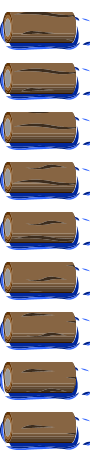
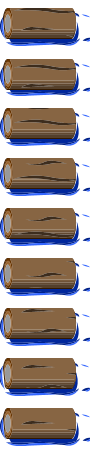
Added - animation of hero die, Fixed - small trunk img, Optimized - trees movement & deletion

diff --git a/scripts/objects.js b/scripts/objects.js
@@ -29,6 +29,7 @@ define(['kineticjs'],
 
 
                 var blob = new Kinetic.Sprite({
+                    inCollision: false,
                     x: x,
                     y: y,
                     width:picWidth,
@@ -57,44 +58,32 @@ define(['kineticjs'],
                     frameIndex: 0
                 });
 
-
+                blob.start();
                 return blob;
             },
 
             food: function (x, y, type) {
                 var imageFile;
-                var imgHeight;
-                var imgWidth;
+                var imgHeight = 50;
+                var imgWidth = 50;
                 switch (type) {
                     case 'steak':
                         imageFile = 'resources/56.png';
-                        imgWidth = 45;
-                        imgHeight = 25;
                         break;
                     case 'drink':
                         imageFile = 'resources/57.png';
-                        imgWidth = 30;
-                        imgHeight = 49;
                         break;
                     case 'axe':
                         imageFile = 'resources/58.png';
-                        imgWidth = 47;
-                        imgHeight = 26;
                         break;
                     case 'cow':
                         imageFile = 'resources/59.png';
-                        imgWidth = 47;
-                        imgHeight = 39;
                         break;
                     case 'gold':
                         imageFile = 'resources/61.png';
-                        imgWidth = 35;
-                        imgHeight = 46;
                         break;
                     default :
                         imageFile = 'resources/56.png';
-                        imgWidth = 45;
-                        imgHeight = 25;
                 }
 
                 var imageObj = new Image();
@@ -121,7 +110,7 @@ define(['kineticjs'],
                     width:50,
                     height:55,
                     image: imageObj,
-                    animation: 'run',
+                    animation: 'idle',
                     animations: {
                         // x, y, width, height (9 frames)
                         idle: [
@@ -133,12 +122,35 @@ define(['kineticjs'],
                             50, 0, 50, 55,
                             100, 0, 50, 55,
                             150, 0, 50, 55
+                        ],
+                        die: [
+                            0, 55, 50, 55,
+                            50, 55, 50, 55,
+                            100, 55, 50, 55,
+                            150, 55, 50, 55,
+                            200, 55, 50, 55,
+                            250, 55, 50, 55,
+                            300, 55, 50, 55,
+                            350, 55, 50, 55,
+                            400, 55, 50, 55,
+                            450, 55, 50, 55
                         ]
                     },
                     frameRate: 12,
                     frameIndex: 0
                 });
-
+                var frameCounter = 0;
+                blob.on('frameIndexChange', function(){
+                    if(blob.animation() == 'die'){
+                        frameCounter += 1;
+                        if(frameCounter >= 10){
+                            blob.animation('idle');
+                            frameCounter = 0;
+                            blob.x(400);
+                            blob.y(480);
+                        }
+                    }
+                });
 
                 return blob;
             }

diff --git a/scripts/start.js b/scripts/start.js
@@ -4,22 +4,15 @@
 
 //todo: load modules, init modules (kineticJS, objects, gameEngine)
 require.config({
-    //By default load any module IDs from js/lib
-    //baseUrl: 'js/lib',
-    //except, if the module ID starts with "app",
-    //load it from the js/app directory. paths
-    //config is relative to the baseUrl, and
-    //never includes a ".js" extension since
-    //the paths config could be for a directory.
     paths: {
         objects: 'objects',
-        kineticjs: 'libs/kinetic-v5.1.0.min'
-        //gameEngine: 'gameEngine'
+        kineticjs: 'libs/kinetic-v5.1.0.min',
+        gameEngine: 'gameEngine'
     }
 });
 
 
-require(['kineticjs', 'objects'], function (Kinetic, obj) {
+require(['kineticjs', 'objects', 'gameEngine'], function (Kinetic, obj, engine) {
 
     // Stage and background setup
     var stage = new Kinetic.Stage({
@@ -118,29 +111,21 @@ require(['kineticjs', 'objects'], function (Kinetic, obj) {
     requestAnimationFrame(executeFrame, document);
 
     // initial random distance between trees
-    var distance = randomGenerator(50, 100);
+    var distance = randomGenerator(10, 100);
 
     // function for generating new trees
     function checkTrees() {
-        var lastTrees = [];
-
         for (var i = 0; i < trees.length; i++) {
             var t = trees[i][trees[i].length - 1];
             if (t) {
-                lastTrees.push(t)
-            }
-        }
-
-
-        for (var j = 0; j < lastTrees.length; j++) {
-
-            var checker = lastTrees[j].x() + lastTrees[j].width() + distance < 800;
-            if (checker) {
-                distance = randomGenerator(50, 100);
-                var newTree = obj.trunk(800, lastTrees[j].y(), randomGenerator(1, 3));
-                treesLayer.add(newTree);
-                newTree.start();
-                trees[j].push(newTree);
+                var checker = t.x() + t.width() + distance < 800;
+                if (checker) {
+                    distance = randomGenerator(10, 100);
+                    var newTree = obj.trunk(800, t.y(), randomGenerator(1, 3));
+                    treesLayer.add(newTree);
+                    newTree.start();
+                    trees[i].push(newTree);
+                }
             }
         }
     }
@@ -151,7 +136,8 @@ require(['kineticjs', 'objects'], function (Kinetic, obj) {
             var t = trees[i][0];
             if (t) {
                 if (t.x() + t.width() < 0) {
-                    trees[i].shift();
+                    t.stop();
+                    delete trees[i].shift();
                 }
             }
         }
@@ -202,6 +188,7 @@ require(['kineticjs', 'objects'], function (Kinetic, obj) {
         }
         return 50;
     }
+
     function collision() {
         var dead = false;
         var rect1 = {x:trees.x, y:trees.y, width:trees.width, height:trees.height};

diff --git a/scripts/gameEngine.js b/scripts/gameEngine.js
@@ -4,26 +4,11 @@
 
 
 define(['kineticjs', 'objects'], function(Kinetic, obj){
-    var stage = new Kinetic.Stage({
-        width: 800,
-        height: 600,
-        container: 'stage-container'
-    });
 
+    return new function() {
+        this.startGame = function () {
+            alert(a);
+        }
 
-
-    var trees = [
-        [],
-        [],
-        [],
-        [],
-        [],
-        [],
-        []
-    ];
-    var testTree = obj.trunk(300, 300);
-    var treesLayer = new Kinetic.Layer();
-    treesLayer.add(testTree);
-    stage.add(treesLayer);
-    trees[0].push(testTree);
+    };
 });
